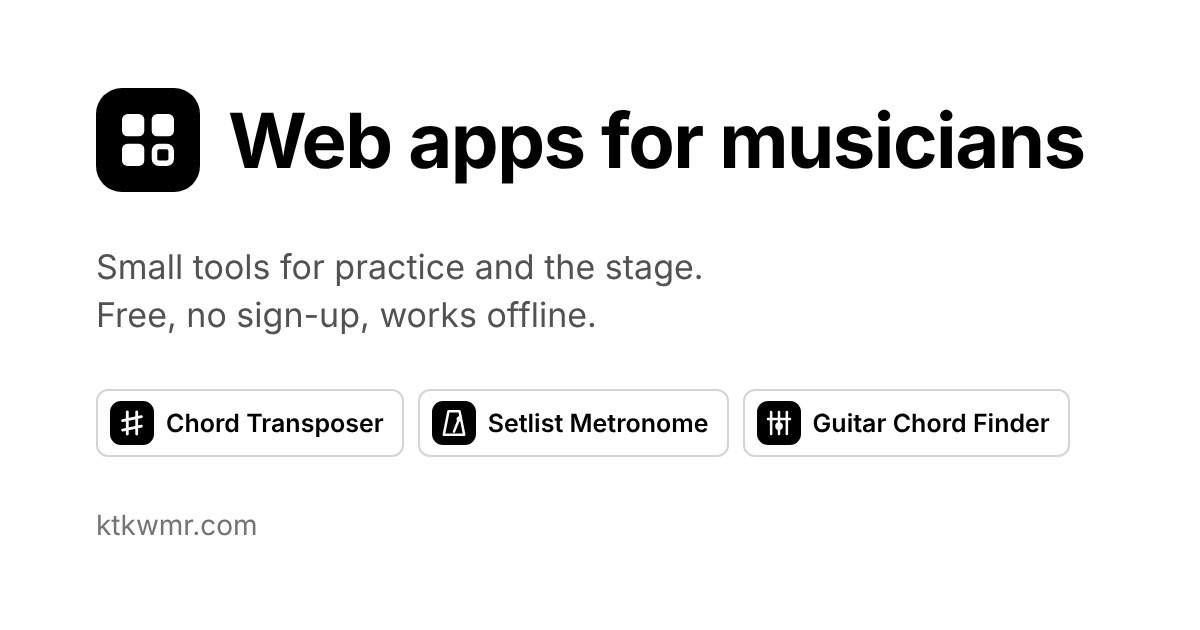
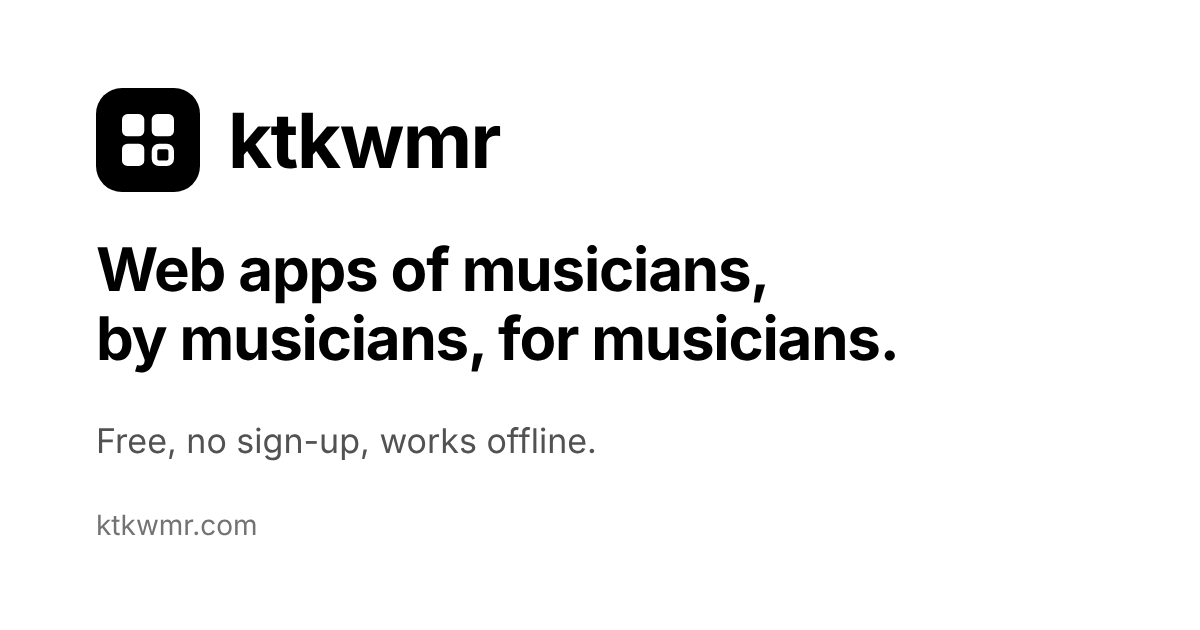
トップページをアプリが増える前提の作りにし、コピーを変更
- ヘッダー・フッター・ヒーローからアプリ個別のリンクとアイコン列を削除
- 説明文から「3 つの」など数・アプリ名の列挙をなくす（数は APPS から自動計算）
- 見出しを「ミュージシャンのミュージシャンによるミュージシャンのための Web アプリ」に変更し、上の小見出しを削除
- カードの並びを列数固定から自動（auto-fill）に。プレビュー図とガイドは省略可（無ければアイコン表示）
- OGP 画像からアプリ一覧を外し、新しいコピーに

Claude-Session: https://claude.ai/code/session_01N8ecjgEjRWZiJGeVdpvqMF

Changed region(s): [[0.0617, 0.3921, 0.8942, 0.754], [0.185, 0.181, 0.925, 0.3016]]

diff --git a/public/ja/index.html b/public/ja/index.html
@@ -7,16 +7,16 @@
   <meta name="theme-color" content="#ffffff" />
   <link rel="icon" type="image/svg+xml" href="/icon.svg" />
   <link rel="apple-touch-icon" href="/chordtransposer/icons/apple-touch-icon.png" />
-  <title>ktkwmr – 音楽をする人のための無料 Web アプリ</title>
-  <meta name="description" content="コード譜の移調、セットリストの曲ごとのメトロノーム設定、変則チューニングのコード探しができる無料の Web アプリ。登録不要で、オフラインでも使えます。" />
+  <title>ktkwmr – ミュージシャンの、ミュージシャンによる、ミュージシャンのための Web アプリ</title>
+  <meta name="description" content="ミュージシャンが作った、ミュージシャンのための無料 Web アプリ。コード譜・テンポ・ギターのコードなど、演奏に役立つ道具をブラウザだけで。登録不要で、オフラインでも使えます。" />
   <link rel="canonical" href="https://ktkwmr.com/ja/" />
   <link rel="alternate" hreflang="en" href="https://ktkwmr.com/" />
   <link rel="alternate" hreflang="ja" href="https://ktkwmr.com/ja/" />
   <link rel="alternate" hreflang="x-default" href="https://ktkwmr.com/" />
   <meta property="og:type" content="website" />
   <meta property="og:site_name" content="ktkwmr" />
-  <meta property="og:title" content="ktkwmr – 音楽をする人のための無料 Web アプリ" />
-  <meta property="og:description" content="コード譜の移調、セットリストの曲ごとのメトロノーム設定、変則チューニングのコード探しができる無料の Web アプリ。登録不要で、オフラインでも使えます。" />
+  <meta property="og:title" content="ktkwmr – ミュージシャンの、ミュージシャンによる、ミュージシャンのための Web アプリ" />
+  <meta property="og:description" content="ミュージシャンが作った、ミュージシャンのための無料 Web アプリ。コード譜・テンポ・ギターのコードなど、演奏に役立つ道具をブラウザだけで。登録不要で、オフラインでも使えます。" />
   <meta property="og:locale" content="ja_JP" />
   <meta property="og:locale:alternate" content="en_US" />
   <meta property="og:url" content="https://ktkwmr.com/ja/" />
@@ -30,7 +30,7 @@
     "@type": "WebSite",
     "name": "ktkwmr",
     "url": "https://ktkwmr.com/ja/",
-    "description": "コード譜の移調、セットリストの曲ごとのメトロノーム設定、変則チューニングのコード探しができる無料の Web アプリ。登録不要で、オフラインでも使えます。",
+    "description": "ミュージシャンが作った、ミュージシャンのための無料 Web アプリ。コード譜・テンポ・ギターのコードなど、演奏に役立つ道具をブラウザだけで。登録不要で、オフラインでも使えます。",
     "inLanguage": "ja",
     "author": {
       "@type": "Person",
@@ -106,22 +106,13 @@
     .head-links { display: flex; align-items: center; gap: 4px; margin-left: auto; font-size: 14px; }
     .head-links a { display: inline-flex; align-items: center; height: 34px; padding: 0 12px; border-radius: var(--radius); text-decoration: none; color: var(--muted); }
     .head-links a:hover { background: var(--hover-fill); color: var(--ink); }
-    .head-links .apps-menu { display: flex; gap: 2px; margin-right: 8px; padding-right: 12px; border-right: 1px solid var(--line); }
-    .head-links .apps-menu a { gap: 8px; padding: 0 10px; color: var(--ink); font-weight: 600; }
-    .head-links .apps-menu svg { width: 20px; height: 20px; }
 
     /* Hero */
-    .hero { display: grid; grid-template-columns: minmax(0, 1fr) 340px; gap: 48px; align-items: end; padding: 72px 0 56px; }
-    .eyebrow { display: inline-flex; align-items: center; gap: 8px; margin: 0 0 20px; font-family: var(--mono); font-size: 12px; letter-spacing: .08em; text-transform: uppercase; color: var(--muted); }
-    .eyebrow::before { content: ""; width: 8px; height: 8px; border-radius: 50%; background: var(--ink); }
+    .hero { display: grid; grid-template-columns: minmax(0, 1fr) 340px; gap: 48px; align-items: end; padding: 64px 0 56px; }
     h1 { margin: 0 0 20px; text-wrap: balance; font-size: clamp(34px, 5.2vw, 56px); line-height: 1.12; letter-spacing: -0.03em; font-weight: 700; }
-    html[lang="ja"] h1 { line-height: 1.3; letter-spacing: -0.01em; font-size: clamp(30px, 4.6vw, 48px); }
+    html[lang="ja"] h1 { line-height: 1.32; letter-spacing: 0; font-size: clamp(28px, 4.2vw, 46px); }
     .lead { max-width: 600px; text-wrap: pretty; margin: 0 0 28px; color: var(--muted); font-size: 17px; line-height: 1.75; }
     .hero-actions { display: flex; flex-wrap: wrap; align-items: center; gap: 10px; }
-    .app-dots { display: flex; gap: 6px; }
-    .app-dots a { display: block; border-radius: 9px; transition: transform .15s; }
-    .app-dots a:hover { transform: translateY(-2px); }
-    .app-dots svg { display: block; width: 42px; height: 42px; }
 
     .btn { display: inline-flex; align-items: center; justify-content: center; gap: 8px; height: 42px; padding: 0 20px; border-radius: var(--radius); border: 1px solid var(--ink); background: var(--ink); color: var(--paper); font-size: 14px; font-weight: 600; text-decoration: none; white-space: nowrap; transition: background .15s, transform .1s; }
     .btn:hover { background: var(--press-hover); }
@@ -144,7 +135,8 @@
     .section-head { display: flex; align-items: baseline; gap: 12px; margin: 0 0 16px; }
     h2 { margin: 0; font-size: 22px; letter-spacing: -0.01em; }
     .section-head .count { font-family: var(--mono); font-size: 13px; color: var(--subtle); }
-    .apps { display: grid; grid-template-columns: repeat(3, minmax(0, 1fr)); gap: 20px; margin: 0 0 72px; padding: 0; list-style: none; }
+    /* Any number of cards: as many columns as fit */
+    .apps { display: grid; grid-template-columns: repeat(auto-fill, minmax(min(100%, 320px), 1fr)); gap: 20px; margin: 0 0 72px; padding: 0; list-style: none; }
     .card { display: flex; flex-direction: column; background: var(--paper); border: 1px solid var(--line); border-radius: 12px; box-shadow: var(--paper-shadow); overflow: hidden; transition: box-shadow .2s, transform .2s; }
     .card:hover { transform: translateY(-3px); box-shadow: 0 2px 6px rgba(0,0,0,.08), 0 16px 36px rgba(0,0,0,.10); }
     .card .panel-head { justify-content: flex-start; }
@@ -194,6 +186,7 @@
     .pv-diagram { width: 128px; height: auto; }
     .pv-finder svg text { fill: currentColor; }
     .pv-tunings { display: grid; gap: 6px; }
+    .pv-icon { width: 72px; height: 72px; }
 
     /* Shared promises */
     .why { margin: 0 0 72px; background: var(--paper); border: 1px solid var(--line); border-radius: 12px; box-shadow: var(--paper-shadow); }
@@ -218,13 +211,9 @@
       .hero { grid-template-columns: 1fr; gap: 32px; padding: 48px 0 40px; }
       .spec dl { display: grid; grid-template-columns: repeat(3, minmax(0, 1fr)); gap: 0 20px; }
       .spec .row:nth-last-child(-n+3) { border-bottom: 0; }
-      .apps { grid-template-columns: 1fr; max-width: 560px; }
       .why ul { grid-template-columns: repeat(2, minmax(0, 1fr)); }
       .why li:nth-child(3) { border-left: 0; }
       .why li:nth-child(n+3) { border-top: 1px solid var(--line); }
-    }
-    @media (max-width: 720px) {
-      .head-links .apps-menu { display: none; }
     }
     @media (max-width: 560px) {
       body { font-size: 15px; }
@@ -240,10 +229,9 @@
     @media (prefers-reduced-motion: reduce) {
       .pv-beats span { animation: none; }
       .pv-beats span:first-child { background: var(--ink); color: var(--paper); }
-      .card, .card:hover, .app-dots a:hover { transform: none; }
+      .card, .card:hover { transform: none; }
       .btn:active { transform: none; background: var(--press); }
     }
-    .sr { position: absolute; width: 1px; height: 1px; overflow: hidden; clip: rect(0 0 0 0); white-space: nowrap; }
   </style>
 </head>
 <body>
@@ -251,7 +239,6 @@
     <div class="wrap">
       <a class="brand" href="/ja/"><svg class="mark" viewBox="0 0 28 28" aria-hidden="true"><rect width="28" height="28" rx="7" fill="#000"/><g fill="#fff"><rect x="7" y="7" width="6" height="6" rx="1.5"/><rect x="15" y="7" width="6" height="6" rx="1.5"/><rect x="7" y="15" width="6" height="6" rx="1.5"/></g><rect x="15.75" y="15.75" width="4.5" height="4.5" rx="1.2" fill="none" stroke="#fff" stroke-width="1.5"/></svg><span>ktkwmr</span></a>
       <nav class="head-links" aria-label="サイト">
-        <span class="apps-menu"><a href="/chordtransposer/ja/"><svg class="" viewBox="0 0 28 28" aria-hidden="true"><rect width="28" height="28" rx="7" fill="#000"/><g fill="none" stroke="#fff" stroke-width="1.8" stroke-linecap="round"><path d="M11 7v14M17 7v14M8 12.5l12-2.5M8 18.5l12-2.5"/></g></svg><span>Chord Transposer</span></a><a href="/setlistmetronome/ja/"><svg class="" viewBox="0 0 28 28" aria-hidden="true"><rect width="28" height="28" rx="7" fill="#000"/><g fill="none" stroke="#fff" stroke-width="1.6" stroke-linejoin="round" stroke-linecap="round"><path d="M10.5 6.5h7l3 15h-13z"/><path d="M14 19.5l4-10"/></g><circle cx="17.2" cy="11.5" r="1.6" fill="#fff"/></svg><span>Setlist Metronome</span></a><a href="/guitarchordfinder/ja/"><svg class="" viewBox="0 0 28 28" aria-hidden="true"><rect width="28" height="28" rx="7" fill="#000"/><g fill="none" stroke="#fff" stroke-width="1.6" stroke-linecap="round"><path d="M9 7v14M14 7v14M19 7v14M7 11.5h14"/></g><circle cx="14" cy="16" r="2.4" fill="#fff"/></svg><span>Guitar Chord Finder</span></a></span>
         <a href="/?lang=en" hreflang="en" lang="en">English</a>
       </nav>
     </div>
@@ -259,12 +246,10 @@
   <main class="wrap">
     <section class="hero">
       <div>
-        <p class="eyebrow">音楽をする人のための Web アプリ</p>
-        <h1>練習にも、本番にも。<br />小さくて頼れる道具。</h1>
-        <p class="lead">移調、テンポ、コードの押さえ方。それぞれ 1 つのことに絞った 3 つのアプリです。ブラウザですぐ開けて、オフラインでも動き、登録は必要ありません。</p>
+        <h1>ミュージシャンの<br />ミュージシャンによる<br />ミュージシャンのための<br />Web アプリ</h1>
+        <p class="lead">弾く人が本当に欲しかった道具を、ひとつずつ作っています。ブラウザですぐ開けて、オフラインでも動き、登録は必要ありません。</p>
         <div class="hero-actions">
           <a class="btn" href="#apps">アプリを見る<svg viewBox="0 0 16 16" aria-hidden="true"><path d="M8 3v10M4 9l4 4 4-4" fill="none" stroke="currentColor" stroke-width="1.6" stroke-linecap="round" stroke-linejoin="round"/></svg></a>
-          <span class="app-dots"><a href="/chordtransposer/ja/" title="Chord Transposer"><svg class="" viewBox="0 0 28 28" aria-hidden="true"><rect width="28" height="28" rx="7" fill="#000"/><g fill="none" stroke="#fff" stroke-width="1.8" stroke-linecap="round"><path d="M11 7v14M17 7v14M8 12.5l12-2.5M8 18.5l12-2.5"/></g></svg><span class="sr">Chord Transposer</span></a><a href="/setlistmetronome/ja/" title="Setlist Metronome"><svg class="" viewBox="0 0 28 28" aria-hidden="true"><rect width="28" height="28" rx="7" fill="#000"/><g fill="none" stroke="#fff" stroke-width="1.6" stroke-linejoin="round" stroke-linecap="round"><path d="M10.5 6.5h7l3 15h-13z"/><path d="M14 19.5l4-10"/></g><circle cx="17.2" cy="11.5" r="1.6" fill="#fff"/></svg><span class="sr">Setlist Metronome</span></a><a href="/guitarchordfinder/ja/" title="Guitar Chord Finder"><svg class="" viewBox="0 0 28 28" aria-hidden="true"><rect width="28" height="28" rx="7" fill="#000"/><g fill="none" stroke="#fff" stroke-width="1.6" stroke-linecap="round"><path d="M9 7v14M14 7v14M19 7v14M7 11.5h14"/></g><circle cx="14" cy="16" r="2.4" fill="#fff"/></svg><span class="sr">Guitar Chord Finder</span></a></span>
         </div>
       </div>
       <aside class="spec" aria-label="概要">
@@ -399,9 +384,6 @@
       <a class="brand" href="/ja/"><svg class="mark" viewBox="0 0 28 28" aria-hidden="true"><rect width="28" height="28" rx="7" fill="#000"/><g fill="#fff"><rect x="7" y="7" width="6" height="6" rx="1.5"/><rect x="15" y="7" width="6" height="6" rx="1.5"/><rect x="7" y="15" width="6" height="6" rx="1.5"/></g><rect x="15.75" y="15.75" width="4.5" height="4.5" rx="1.2" fill="none" stroke="#fff" stroke-width="1.5"/></svg><span>ktkwmr</span></a>
       <span>© 2026 ktkwmr</span>
       <nav aria-label="サイト">
-        <a href="/chordtransposer/ja/">Chord Transposer</a>
-        <a href="/setlistmetronome/ja/">Setlist Metronome</a>
-        <a href="/guitarchordfinder/ja/">Guitar Chord Finder</a>
         <a href="https://github.com/ktkwmr" rel="noopener">GitHub</a>
         <a href="https://github.com/ktkwmr/ChordTransposer/issues" rel="noopener">ご意見・ご質問</a>
       </nav>

diff --git a/public/index.html b/public/index.html
@@ -7,16 +7,16 @@
   <meta name="theme-color" content="#ffffff" />
   <link rel="icon" type="image/svg+xml" href="/icon.svg" />
   <link rel="apple-touch-icon" href="/chordtransposer/icons/apple-touch-icon.png" />
-  <title>ktkwmr – Free web apps for musicians</title>
-  <meta name="description" content="Free browser tools for musicians: transpose chord charts, keep a metronome setting for every song in your setlist, and find guitar chord shapes in alternate tunings. No sign-up, works offline." />
+  <title>ktkwmr – Web apps of musicians, by musicians, for musicians</title>
+  <meta name="description" content="Free web apps for musicians, made by a musician: tools for chord charts, tempo, guitar chords, and more. They run in your browser, need no sign-up, and work offline." />
   <link rel="canonical" href="https://ktkwmr.com/" />
   <link rel="alternate" hreflang="en" href="https://ktkwmr.com/" />
   <link rel="alternate" hreflang="ja" href="https://ktkwmr.com/ja/" />
   <link rel="alternate" hreflang="x-default" href="https://ktkwmr.com/" />
   <meta property="og:type" content="website" />
   <meta property="og:site_name" content="ktkwmr" />
-  <meta property="og:title" content="ktkwmr – Free web apps for musicians" />
-  <meta property="og:description" content="Free browser tools for musicians: transpose chord charts, keep a metronome setting for every song in your setlist, and find guitar chord shapes in alternate tunings. No sign-up, works offline." />
+  <meta property="og:title" content="ktkwmr – Web apps of musicians, by musicians, for musicians" />
+  <meta property="og:description" content="Free web apps for musicians, made by a musician: tools for chord charts, tempo, guitar chords, and more. They run in your browser, need no sign-up, and work offline." />
   <meta property="og:locale" content="en_US" />
   <meta property="og:locale:alternate" content="ja_JP" />
   <meta property="og:url" content="https://ktkwmr.com/" />
@@ -30,7 +30,7 @@
     "@type": "WebSite",
     "name": "ktkwmr",
     "url": "https://ktkwmr.com/",
-    "description": "Free browser tools for musicians: transpose chord charts, keep a metronome setting for every song in your setlist, and find guitar chord shapes in alternate tunings. No sign-up, works offline.",
+    "description": "Free web apps for musicians, made by a musician: tools for chord charts, tempo, guitar chords, and more. They run in your browser, need no sign-up, and work offline.",
     "inLanguage": "en",
     "author": {
       "@type": "Person",
@@ -114,22 +114,13 @@
     .head-links { display: flex; align-items: center; gap: 4px; margin-left: auto; font-size: 14px; }
     .head-links a { display: inline-flex; align-items: center; height: 34px; padding: 0 12px; border-radius: var(--radius); text-decoration: none; color: var(--muted); }
     .head-links a:hover { background: var(--hover-fill); color: var(--ink); }
-    .head-links .apps-menu { display: flex; gap: 2px; margin-right: 8px; padding-right: 12px; border-right: 1px solid var(--line); }
-    .head-links .apps-menu a { gap: 8px; padding: 0 10px; color: var(--ink); font-weight: 600; }
-    .head-links .apps-menu svg { width: 20px; height: 20px; }
 
     /* Hero */
-    .hero { display: grid; grid-template-columns: minmax(0, 1fr) 340px; gap: 48px; align-items: end; padding: 72px 0 56px; }
-    .eyebrow { display: inline-flex; align-items: center; gap: 8px; margin: 0 0 20px; font-family: var(--mono); font-size: 12px; letter-spacing: .08em; text-transform: uppercase; color: var(--muted); }
-    .eyebrow::before { content: ""; width: 8px; height: 8px; border-radius: 50%; background: var(--ink); }
+    .hero { display: grid; grid-template-columns: minmax(0, 1fr) 340px; gap: 48px; align-items: end; padding: 64px 0 56px; }
     h1 { margin: 0 0 20px; text-wrap: balance; font-size: clamp(34px, 5.2vw, 56px); line-height: 1.12; letter-spacing: -0.03em; font-weight: 700; }
-    html[lang="ja"] h1 { line-height: 1.3; letter-spacing: -0.01em; font-size: clamp(30px, 4.6vw, 48px); }
+    html[lang="ja"] h1 { line-height: 1.32; letter-spacing: 0; font-size: clamp(28px, 4.2vw, 46px); }
     .lead { max-width: 600px; text-wrap: pretty; margin: 0 0 28px; color: var(--muted); font-size: 17px; line-height: 1.75; }
     .hero-actions { display: flex; flex-wrap: wrap; align-items: center; gap: 10px; }
-    .app-dots { display: flex; gap: 6px; }
-    .app-dots a { display: block; border-radius: 9px; transition: transform .15s; }
-    .app-dots a:hover { transform: translateY(-2px); }
-    .app-dots svg { display: block; width: 42px; height: 42px; }
 
     .btn { display: inline-flex; align-items: center; justify-content: center; gap: 8px; height: 42px; padding: 0 20px; border-radius: var(--radius); border: 1px solid var(--ink); background: var(--ink); color: var(--paper); font-size: 14px; font-weight: 600; text-decoration: none; white-space: nowrap; transition: background .15s, transform .1s; }
     .btn:hover { background: var(--press-hover); }
@@ -152,7 +143,8 @@
     .section-head { display: flex; align-items: baseline; gap: 12px; margin: 0 0 16px; }
     h2 { margin: 0; font-size: 22px; letter-spacing: -0.01em; }
     .section-head .count { font-family: var(--mono); font-size: 13px; color: var(--subtle); }
-    .apps { display: grid; grid-template-columns: repeat(3, minmax(0, 1fr)); gap: 20px; margin: 0 0 72px; padding: 0; list-style: none; }
+    /* Any number of cards: as many columns as fit */
+    .apps { display: grid; grid-template-columns: repeat(auto-fill, minmax(min(100%, 320px), 1fr)); gap: 20px; margin: 0 0 72px; padding: 0; list-style: none; }
     .card { display: flex; flex-direction: column; background: var(--paper); border: 1px solid var(--line); border-radius: 12px; box-shadow: var(--paper-shadow); overflow: hidden; transition: box-shadow .2s, transform .2s; }
     .card:hover { transform: translateY(-3px); box-shadow: 0 2px 6px rgba(0,0,0,.08), 0 16px 36px rgba(0,0,0,.10); }
     .card .panel-head { justify-content: flex-start; }
@@ -202,6 +194,7 @@
     .pv-diagram { width: 128px; height: auto; }
     .pv-finder svg text { fill: currentColor; }
     .pv-tunings { display: grid; gap: 6px; }
+    .pv-icon { width: 72px; height: 72px; }
 
     /* Shared promises */
     .why { margin: 0 0 72px; background: var(--paper); border: 1px solid var(--line); border-radius: 12px; box-shadow: var(--paper-shadow); }
@@ -226,13 +219,9 @@
       .hero { grid-template-columns: 1fr; gap: 32px; padding: 48px 0 40px; }
       .spec dl { display: grid; grid-template-columns: repeat(3, minmax(0, 1fr)); gap: 0 20px; }
       .spec .row:nth-last-child(-n+3) { border-bottom: 0; }
-      .apps { grid-template-columns: 1fr; max-width: 560px; }
       .why ul { grid-template-columns: repeat(2, minmax(0, 1fr)); }
       .why li:nth-child(3) { border-left: 0; }
       .why li:nth-child(n+3) { border-top: 1px solid var(--line); }
-    }
-    @media (max-width: 720px) {
-      .head-links .apps-menu { display: none; }
     }
     @media (max-width: 560px) {
       body { font-size: 15px; }
@@ -248,10 +237,9 @@
     @media (prefers-reduced-motion: reduce) {
       .pv-beats span { animation: none; }
       .pv-beats span:first-child { background: var(--ink); color: var(--paper); }
-      .card, .card:hover, .app-dots a:hover { transform: none; }
+      .card, .card:hover { transform: none; }
       .btn:active { transform: none; background: var(--press); }
     }
-    .sr { position: absolute; width: 1px; height: 1px; overflow: hidden; clip: rect(0 0 0 0); white-space: nowrap; }
   </style>
 </head>
 <body>
@@ -259,7 +247,6 @@
     <div class="wrap">
       <a class="brand" href="/"><svg class="mark" viewBox="0 0 28 28" aria-hidden="true"><rect width="28" height="28" rx="7" fill="#000"/><g fill="#fff"><rect x="7" y="7" width="6" height="6" rx="1.5"/><rect x="15" y="7" width="6" height="6" rx="1.5"/><rect x="7" y="15" width="6" height="6" rx="1.5"/></g><rect x="15.75" y="15.75" width="4.5" height="4.5" rx="1.2" fill="none" stroke="#fff" stroke-width="1.5"/></svg><span>ktkwmr</span></a>
       <nav class="head-links" aria-label="Site">
-        <span class="apps-menu"><a href="/chordtransposer/"><svg class="" viewBox="0 0 28 28" aria-hidden="true"><rect width="28" height="28" rx="7" fill="#000"/><g fill="none" stroke="#fff" stroke-width="1.8" stroke-linecap="round"><path d="M11 7v14M17 7v14M8 12.5l12-2.5M8 18.5l12-2.5"/></g></svg><span>Chord Transposer</span></a><a href="/setlistmetronome/"><svg class="" viewBox="0 0 28 28" aria-hidden="true"><rect width="28" height="28" rx="7" fill="#000"/><g fill="none" stroke="#fff" stroke-width="1.6" stroke-linejoin="round" stroke-linecap="round"><path d="M10.5 6.5h7l3 15h-13z"/><path d="M14 19.5l4-10"/></g><circle cx="17.2" cy="11.5" r="1.6" fill="#fff"/></svg><span>Setlist Metronome</span></a><a href="/guitarchordfinder/"><svg class="" viewBox="0 0 28 28" aria-hidden="true"><rect width="28" height="28" rx="7" fill="#000"/><g fill="none" stroke="#fff" stroke-width="1.6" stroke-linecap="round"><path d="M9 7v14M14 7v14M19 7v14M7 11.5h14"/></g><circle cx="14" cy="16" r="2.4" fill="#fff"/></svg><span>Guitar Chord Finder</span></a></span>
         <a href="/ja/" hreflang="ja" lang="ja">日本語</a>
       </nav>
     </div>
@@ -267,12 +254,10 @@
   <main class="wrap">
     <section class="hero">
       <div>
-        <p class="eyebrow">Web apps for musicians</p>
-        <h1>Small tools for<br />practice and the stage.</h1>
-        <p class="lead">Three focused apps for transposing charts, keeping time, and finding chord shapes. They open instantly in your browser, work offline, and never ask you to sign up.</p>
+        <h1>Web apps of musicians,<br />by musicians,<br />for musicians.</h1>
+        <p class="lead">Tools a player actually wanted, made one at a time. They open instantly in your browser, work offline, and never ask you to sign up.</p>
         <div class="hero-actions">
           <a class="btn" href="#apps">See the apps<svg viewBox="0 0 16 16" aria-hidden="true"><path d="M8 3v10M4 9l4 4 4-4" fill="none" stroke="currentColor" stroke-width="1.6" stroke-linecap="round" stroke-linejoin="round"/></svg></a>
-          <span class="app-dots"><a href="/chordtransposer/" title="Chord Transposer"><svg class="" viewBox="0 0 28 28" aria-hidden="true"><rect width="28" height="28" rx="7" fill="#000"/><g fill="none" stroke="#fff" stroke-width="1.8" stroke-linecap="round"><path d="M11 7v14M17 7v14M8 12.5l12-2.5M8 18.5l12-2.5"/></g></svg><span class="sr">Chord Transposer</span></a><a href="/setlistmetronome/" title="Setlist Metronome"><svg class="" viewBox="0 0 28 28" aria-hidden="true"><rect width="28" height="28" rx="7" fill="#000"/><g fill="none" stroke="#fff" stroke-width="1.6" stroke-linejoin="round" stroke-linecap="round"><path d="M10.5 6.5h7l3 15h-13z"/><path d="M14 19.5l4-10"/></g><circle cx="17.2" cy="11.5" r="1.6" fill="#fff"/></svg><span class="sr">Setlist Metronome</span></a><a href="/guitarchordfinder/" title="Guitar Chord Finder"><svg class="" viewBox="0 0 28 28" aria-hidden="true"><rect width="28" height="28" rx="7" fill="#000"/><g fill="none" stroke="#fff" stroke-width="1.6" stroke-linecap="round"><path d="M9 7v14M14 7v14M19 7v14M7 11.5h14"/></g><circle cx="14" cy="16" r="2.4" fill="#fff"/></svg><span class="sr">Guitar Chord Finder</span></a></span>
         </div>
       </div>
       <aside class="spec" aria-label="At a glance">
@@ -407,9 +392,6 @@
       <a class="brand" href="/"><svg class="mark" viewBox="0 0 28 28" aria-hidden="true"><rect width="28" height="28" rx="7" fill="#000"/><g fill="#fff"><rect x="7" y="7" width="6" height="6" rx="1.5"/><rect x="15" y="7" width="6" height="6" rx="1.5"/><rect x="7" y="15" width="6" height="6" rx="1.5"/></g><rect x="15.75" y="15.75" width="4.5" height="4.5" rx="1.2" fill="none" stroke="#fff" stroke-width="1.5"/></svg><span>ktkwmr</span></a>
       <span>© 2026 ktkwmr</span>
       <nav aria-label="Site">
-        <a href="/chordtransposer/">Chord Transposer</a>
-        <a href="/setlistmetronome/">Setlist Metronome</a>
-        <a href="/guitarchordfinder/">Guitar Chord Finder</a>
         <a href="https://github.com/ktkwmr" rel="noopener">GitHub</a>
         <a href="https://github.com/ktkwmr/ChordTransposer/issues" rel="noopener">Feedback</a>
       </nav>

diff --git a/scripts/og-image-home.html b/scripts/og-image-home.html
@@ -12,9 +12,7 @@
   .brand svg { width: 104px; height: 104px; }
   h1 { margin: 0; font-size: 76px; font-weight: 700; letter-spacing: -0.02em; }
   p { margin: 0; font-size: 34px; color: #525252; line-height: 1.4; }
-  .apps { display: flex; gap: 14px; }
-  .apps span { display: flex; align-items: center; gap: 12px; white-space: nowrap; border: 2px solid #d4d4d4; border-radius: 12px; padding: 10px 18px 10px 12px; font-size: 25px; font-weight: 600; }
-  .apps svg { width: 44px; height: 44px; }
+  .copy { font-size: 60px; font-weight: 700; color: #000; letter-spacing: -0.02em; line-height: 1.15; }
   .url { font-size: 28px; color: #737373; }
 </style>
 </head>
@@ -22,14 +20,10 @@
   <div class="wrap">
     <div class="brand">
       <svg viewBox="0 0 28 28"><rect width="28" height="28" rx="7"/><g fill="#fff"><rect x="7" y="7" width="6" height="6" rx="1.5"/><rect x="15" y="7" width="6" height="6" rx="1.5"/><rect x="7" y="15" width="6" height="6" rx="1.5"/></g><rect x="15.75" y="15.75" width="4.5" height="4.5" rx="1.2" fill="none" stroke="#fff" stroke-width="1.5"/></svg>
-      <h1>Web apps for musicians</h1>
+      <h1>ktkwmr</h1>
     </div>
-    <p>Small tools for practice and the stage.<br />Free, no sign-up, works offline.</p>
-    <div class="apps">
-      <span><svg viewBox="0 0 28 28"><rect width="28" height="28" rx="7"/><g fill="none" stroke="#fff" stroke-width="1.8" stroke-linecap="round"><path d="M11 7v14M17 7v14M8 12.5l12-2.5M8 18.5l12-2.5"/></g></svg>Chord Transposer</span>
-      <span><svg viewBox="0 0 28 28"><rect width="28" height="28" rx="7"/><g fill="none" stroke="#fff" stroke-width="1.6" stroke-linejoin="round" stroke-linecap="round"><path d="M10.5 6.5h7l3 15h-13z"/><path d="M14 19.5l4-10"/></g><circle cx="17.2" cy="11.5" r="1.6" fill="#fff"/></svg>Setlist Metronome</span>
-      <span><svg viewBox="0 0 28 28"><rect width="28" height="28" rx="7"/><g fill="none" stroke="#fff" stroke-width="1.6" stroke-linecap="round"><path d="M9 7v14M14 7v14M19 7v14M7 11.5h14"/></g><circle cx="14" cy="16" r="2.4" fill="#fff"/></svg>Guitar Chord Finder</span>
-    </div>
+    <p class="copy">Web apps of musicians,<br />by musicians, for musicians.</p>
+    <p>Free, no sign-up, works offline.</p>
     <div class="url">ktkwmr.com</div>
   </div>
 </body>

diff --git a/README.md b/README.md
@@ -165,6 +165,6 @@ node scripts/update-third-party-licenses.mjs --check  # exit 1 if something is m
 
 ## Top page / トップページ
 
-This Worker also serves the domain root. `https://ktkwmr.com/` (Japanese: `/ja/`) lists every app on ktkwmr.com, and is generated from `scripts/pages/home.mjs` by `node scripts/build-pages.mjs`. Setlist Metronome and Guitar Chord Finder are in other repositories, so when an app is added or a guide page is added or renamed, update `APPS` in `scripts/pages/home.mjs`. A browser whose first language is Japanese is sent from `/` to `/ja/` (`?lang=en` keeps English).
+This Worker also serves the domain root. `https://ktkwmr.com/` (Japanese: `/ja/`) lists every app on ktkwmr.com, and is generated from `scripts/pages/home.mjs` by `node scripts/build-pages.mjs`. The page assumes more apps will be added: only `APPS` names the apps, and the counts are computed. The other apps are in their own repositories, so when an app is added or a guide page is added or renamed, update `ICON` and `APPS` in `scripts/pages/home.mjs` (a preview picture and guides are optional). A browser whose first language is Japanese is sent from `/` to `/ja/` (`?lang=en` keeps English).
 
-ドメイン直下 `https://ktkwmr.com/`（日本語: `/ja/`）は ktkwmr.com の全アプリの一覧ページで、`scripts/pages/home.mjs` から `node scripts/build-pages.mjs` で生成します。他のアプリは別リポジトリなので、アプリやガイド記事を追加・改名したら `home.mjs` の `APPS` も直してください。ブラウザの第一言語が日本語なら `/` から `/ja/` に移動します（`?lang=en` で英語のまま）。
+ドメイン直下 `https://ktkwmr.com/`（日本語: `/ja/`）は ktkwmr.com の全アプリの一覧ページで、`scripts/pages/home.mjs` から `node scripts/build-pages.mjs` で生成します。アプリが増えることを前提に、アプリ名は `APPS` にだけ書き、数は自動で数えます。他のアプリは別リポジトリなので、アプリやガイド記事を追加・改名したら `home.mjs` の `ICON` と `APPS` を直してください（プレビュー図とガイドは省略可）。ブラウザの第一言語が日本語なら `/` から `/ja/` に移動します（`?lang=en` で英語のまま）。
